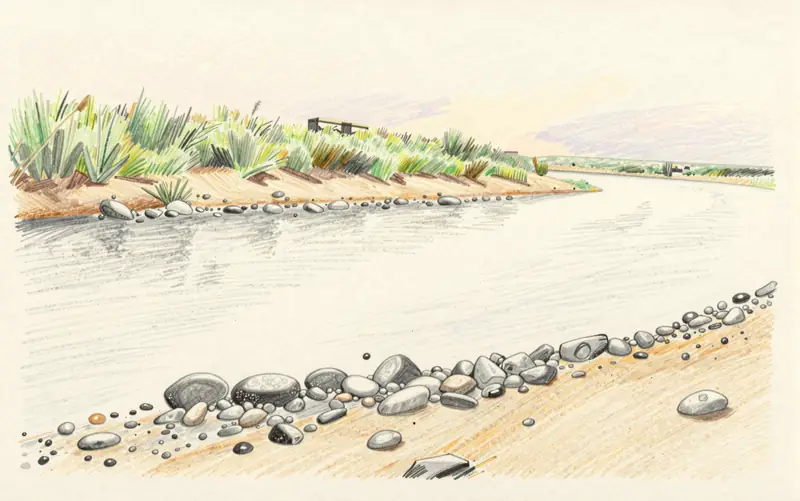
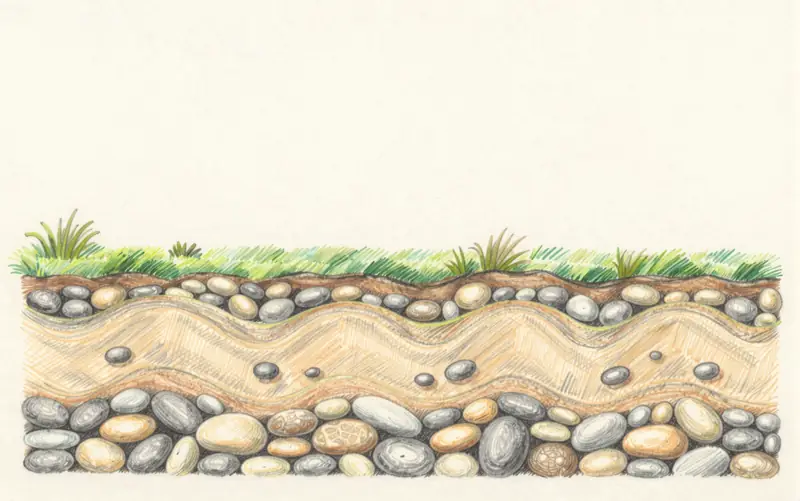
Diamond Drop: level 3 repainted as a gravel cut-away

diff --git a/src/games/diamond/art/draw.ts b/src/games/diamond/art/draw.ts
@@ -323,8 +323,15 @@ const LOOKS: LevelLook[] = [
   { sky: null, bands: ['#2a1a45', '#24163d', '#1e1234', '#180f2b'], surface: '#3a2760' },
 ];
 
-/** How far down the painting its grass line is, for the levels whose sky reaches below the game's ground. */
-const SURFACE: Partial<Record<number, number>> = { 1: 0.34, 2: 0.36 };
+/**
+ * For the levels whose sky reaches below the game's ground: how far down the painting its grass line is, and where its
+ * ground ends (level 3's drawing stops above the bottom of the paper).
+ */
+const SURFACE: Partial<Record<number, { line: number; bottom: number }>> = {
+  1: { line: 0.34, bottom: 1 },
+  2: { line: 0.36, bottom: 1 },
+  3: { line: 0.44, bottom: 0.95 },
+};
 
 /**
  * The level's still background (sky or cave roof, the layers of earth, and the decorations that stay put). Gives true
@@ -338,10 +345,11 @@ export function drawBackground(ctx: Ctx, level: number): boolean {
     const iw = painted.naturalWidth, ih = painted.naturalHeight;
     const k = Math.max(FIELD_W / iw, FIELD_H / ih);
     const w = iw * k, x = (FIELD_W - w) / 2;
-    const line = SURFACE[level];
-    if (line) {
+    const surface = SURFACE[level];
+    if (surface) {
+      const { line, bottom } = surface;
       ctx.drawImage(painted, 0, 0, iw, ih * line, x, 0, w, GROUND_Y);
-      ctx.drawImage(painted, 0, ih * line, iw, ih * (1 - line), x, GROUND_Y, w, FIELD_H - GROUND_Y);
+      ctx.drawImage(painted, 0, ih * line, iw, ih * (bottom - line), x, GROUND_Y, w, FIELD_H - GROUND_Y);
     } else {
       const h = ih * k;
       ctx.drawImage(painted, x, (FIELD_H - h) / 2, w, h);

diff --git a/scripts/diamond-art.py b/scripts/diamond-art.py
@@ -64,7 +64,7 @@ LEVEL_STYLES = {
 LEVELS = {
     1: ('dark brown crumbly topsoil with tiny roots and a few pebbles, a flat sunny meadow above', 'a bright blue sky, green grass line, a few daisies and a small wooden fence'),
     2: ('a slice through a bank of earth sculpted from modelling clay, many wavy stripes of orange, rust-red, cream and brown clay running across the whole picture right down to the bottom edge, little clay roots, pebbles and a curled pink clay worm near the left and right edges', 'a thin strip of green clay grass and a little pale blue sky'),
-    3: ('grey and tan rounded river gravel and sand layers, small pebbles at the edges, a dry old river bed', 'a green bank above with reeds and a pale evening sky'),
+    3: ('a flat side-on slice through the ground like a science diagram, wavy layers of grey and tan rounded river gravel, sand and smooth pebbles stacked in bands running across the whole picture right down to the bottom edge, an old buried river bed of smooth stones near the bottom', 'a thin strip of green grass with a few reeds and a little pale sky'),
     4: ('a calm dark blue-green cave with soft rock walls, tiny glow-worm lights in strings on the ceiling', 'a rocky cave ceiling with glowing glow-worm threads hanging down'),
     5: ('a hollow cave made of soft purple-blue glass rock, with pale crystal shapes along the far left and right edges, and plain purple-blue glass pieces in the middle', 'a cave ceiling with a few crystal points and a flat stone ledge'),
     6: ('a still blue underground lake in a cave, calm teal water in the middle, wet rocky shores at the edges, soft reflections', 'a high cave ceiling with stalactites and a rocky ledge'),

diff --git a/docs/DIAMOND-ART-PLAN.md b/docs/DIAMOND-ART-PLAN.md
@@ -296,7 +296,7 @@ The order puts the pictures that change the most-used screens first (gems, then 
 - **Item look (2 Nov 2026):** James chose Storybook for everything that isn't a level background. Cut-outs use the Storybook words without "paper grain", which made the model paint a cream frame. Nugget's prompt says "no neck" and "a beak like a drinking straw", because he kept coming out as a chick or duck.
 - **Style choice (2 Nov 2026):** James chose a different style for each level, **backgrounds only**. Gems, rocks, the claw, rope, winch and Nugget keep one look on every level, so they read the same everywhere. That one look is still to choose (Storybook recommended).
 - **Level styles** (`LEVEL_STYLES` in `scripts/diamond-art.py`): 1 storybook watercolour, 2 plasticine, 3 coloured pencil, 4 glowing dark painting, 5 stained glass, 6 woodblock print, 7 explorer's notebook sketch, 8 layered paper-cut, 9 bold comic book, 10 shimmering pastel dream.
-- **Background picks so far** (tries named `level-N-T`, seeds fixed in the script): 1-3, 2-3, 3-2, 4-2, 5-3, 6-2, 7-1, 8-2, 9-4, 10-4. James OK'd these on 2 Nov 2026. Level 2 was repainted the same day: try 1 looked like a clay model on a table once in the game. Level 5's thin glass border is trimmed in the game. Earlier tries of 5, 9 and 10 drew a window frame, creatures or faces; the reworded prompts fixed them.
+- **Background picks so far** (tries named `level-N-T`, seeds fixed in the script): 1-3, 2-3, 3-3, 4-2, 5-3, 6-2, 7-1, 8-2, 9-4, 10-4. James OK'd these on 2 Nov 2026. Level 2 was repainted the same day: try 1 looked like a clay model on a table once in the game. Level 3 too: a river landscape, so things looked like they were floating. Level 5's thin glass border is trimmed in the game. Earlier tries of 5, 9 and 10 drew a window frame, creatures or faces; the reworded prompts fixed them.
 
 ## 8. How the paintings went in (Stage 6, 2 Nov 2026)
 
